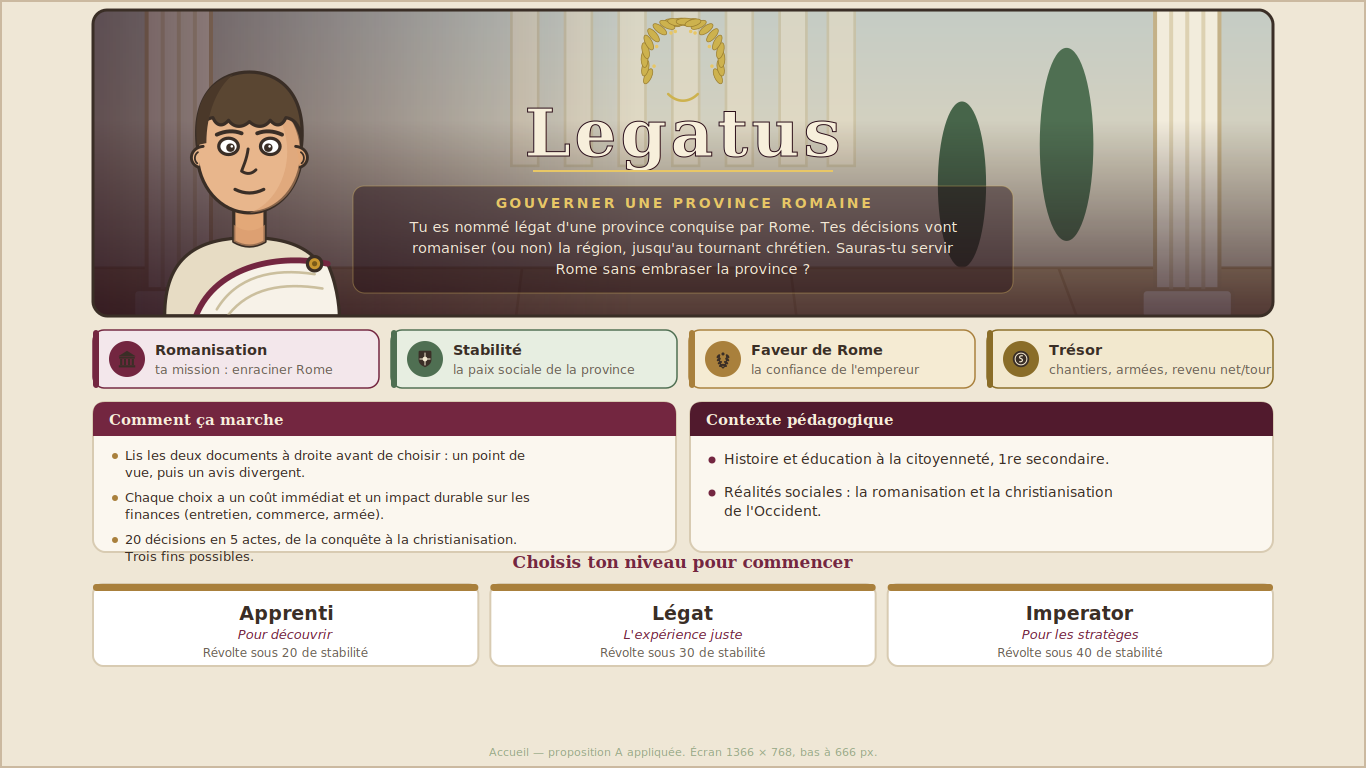
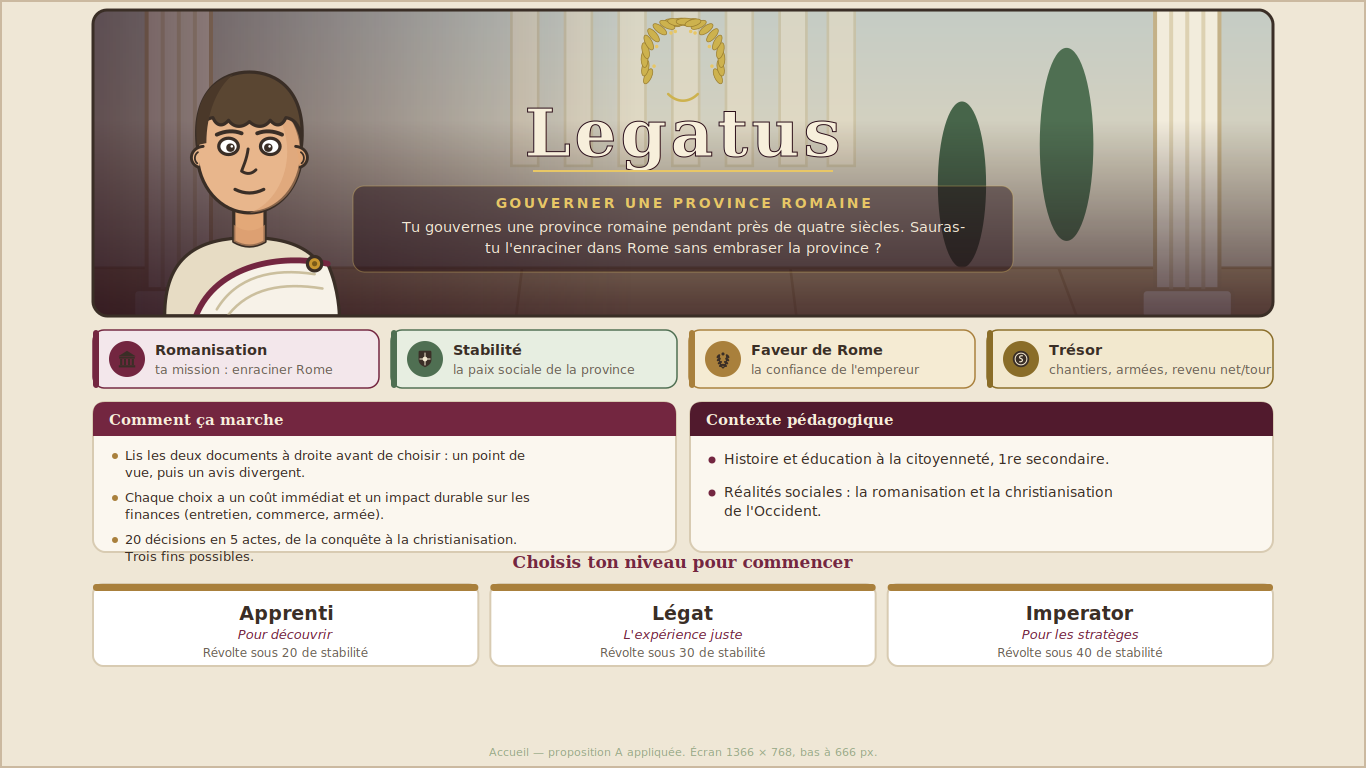
Modification visuelle

Changed region(s): [[0.2767, 0.2812, 0.7379, 0.4062]]

diff --git a/assets/js/legatus-data.js b/assets/js/legatus-data.js
@@ -20,8 +20,8 @@ window.LEGATUS = {
   ],
 
   accueil:{
-    titre:"Legatus", sousTitre:"Gouverner au nom de Rome",
-    accroche:"Tu es nommé légat : gouverneur d'une province tout juste conquise par Rome. Pendant près de quatre siècles, tes décisions vont romaniser (ou non) la région, des premières routes jusqu'au grand tournant chrétien. Sauras-tu servir Rome sans embraser la province ?",
+    titre:"Legatus", sousTitre:"Gouverner une province romaine",
+    accroche:"Tu gouvernes une province romaine pendant près de quatre siècles. Sauras-tu l'enraciner dans Rome sans embraser la province ?",
     commentTitre:"Comment ça marche",
     jaugesAide:[
       { icone:"temple",   nom:"Romanisation",   txt:"ta mission : enraciner Rome" },
@@ -100,7 +100,7 @@ window.LEGATUS = {
       source2:{ texte:"Mais la voie a un coût pour les habitants : entretien par corvée, obligation de loger et de transporter soldats et courriers impériaux. Des édits durent limiter ces réquisitions abusives.", ref:"D’après les édits sur les réquisitions (Ier-IIe s.), adaptation" },
       contexte:"Bâtissons une voie romaine, légat. Mais pour qui d'abord : les légions, ou le commerce ?",
       options:[
-        { label:"Un grand axe pour le commerce et les cités", cout:60, effets:{ romanisation:9 }, persistant:{ tresor:8 }, flag:"voie",
+        { label:"Un grand axe pour le commerce et les cités", cout:60, effets:{ romanisation:9 }, persistant:{ tresor:6 }, flag:"voie",
           consequence:"Marchands et marchandises affluent. Avec eux voyagent la monnaie, la langue et les usages de Rome, et tes recettes montent.",
           pourquoi:"Les voies diffusent Rome et stimulent durablement le commerce : une route civile romanise en profondeur." },
         { label:"Des voies stratégiques pour les légions", cout:50, effets:{ stabilite:5, faveur:3, romanisation:3 }, persistant:{ tresor:3 },
@@ -159,7 +159,7 @@ window.LEGATUS = {
       source2:{ texte:"Au Sénat, beaucoup s’opposèrent à l’entrée des Gaulois : ces anciens ennemis, disaient-ils, allaient envahir Rome et évincer ses vieilles familles.", ref:"D’après Tacite, Annales, XI, 23, adaptation" },
       contexte:"Donnons à la cité un vrai centre, légat : un forum, et une curie pour le conseil des notables.",
       options:[
-        { label:"Un forum monumental avec curie", cout:75, effets:{ romanisation:7, stabilite:2, faveur:2 }, persistant:{ tresor:5 }, flag:"curie",
+        { label:"Un forum monumental avec curie", cout:75, effets:{ romanisation:7, stabilite:2, faveur:2 }, persistant:{ tresor:4 }, flag:"curie",
           consequence:"Place publique, temples, basilique et siège du conseil : le cœur civique de la cité bat à la romaine, et des notables gaulois y siègent.",
           pourquoi:"Le forum était le centre politique et social ; la curie y associait les élites locales au pouvoir, clé d'une romanisation durable (et précieuse face à la révolte)." },
         { label:"Une simple place de marché", cout:30, effets:{ romanisation:3, stabilite:1 }, persistant:{ tresor:3 },
@@ -193,7 +193,7 @@ window.LEGATUS = {
     {
       type:"evenement", id:"commerce", acte:"Acte III : Vivre en Romain",
       acteIntro:"Une génération a passé. Les villes prospèrent, hérissées de monuments. Reste à gagner les cœurs et les esprits : la culture, la foi, le droit de cité.",
-      controleRome:{ seuil:32, rappel:16, malus:12 },
+      controleRome:{ seuil:32, rappel:16, malus:12, faveurRappel:22 },
       acteMalus:{ stabilite:-10 }, acteMalusNote:"Le temps passe : tenir les acquis devient plus dur (stabilité −10).",
       perso:"marchand", expr:"neutre", ambiance:"jour", nom:"Quintus, un marchand",
       titre:"Les marchands de la voie",
@@ -205,7 +205,7 @@ window.LEGATUS = {
         { label:"Taxer lourdement les échanges", effets:{ tresor:30, stabilite:-6, romanisation:1 }, persistant:{ tresor:-2 },
           consequence:"Tes caisses se remplissent vite, mais les marchands rechignent et les cités murmurent.",
           pourquoi:"Le commerce remplit le trésor ; trop taxé, il s'étiole et irrite la province." },
-        { label:"Favoriser le commerce, péages légers", effets:{ romanisation:7, stabilite:1, tresor:8 }, persistant:{ tresor:8 },
+        { label:"Favoriser le commerce, péages légers", effets:{ romanisation:7, stabilite:1, tresor:8 }, persistant:{ tresor:6 },
           consequence:"Les marchés se multiplient. Avec les marchandises voyagent la monnaie et les usages de Rome.",
           pourquoi:"Le commerce diffuse la culture de Rome : il romanise en douceur." },
         { label:"Réserver le grand commerce aux citoyens romains", effets:{ romanisation:4, faveur:5, stabilite:-5 }, persistant:{ tresor:2 },
@@ -262,7 +262,7 @@ window.LEGATUS = {
       contexte:"Legatus, je songe à faire de tous les hommes libres de l'Empire des citoyens romains. M'appuieras-tu ?",
       revenuApres:true,
       options:[
-        { label:"Soutenir la citoyenneté pour tous les hommes libres", effets:{ romanisation:14, stabilite:6, faveur:-3, tresor:10 }, persistant:{ tresor:3 },
+        { label:"Soutenir la citoyenneté pour tous les hommes libres", effets:{ romanisation:14, stabilite:6, faveur:-3, tresor:10 }, persistant:{ tresor:2 },
           consequence:"Des millions de provinciaux deviennent citoyens romains. La Gaule se sent pleinement de l'Empire, et paie l'impôt des citoyens.",
           pourquoi:"L'édit de Caracalla (212) fit de presque tous les habitants libres des citoyens romains : l'aboutissement de l'intégration (et une nouvelle assiette fiscale)." },
         { label:"L'élargir aux seules élites méritantes", effets:{ romanisation:7, stabilite:2, faveur:2 }, persistant:{ tresor:1 },
@@ -277,7 +277,7 @@ window.LEGATUS = {
     {
       type:"evenement", id:"revolte", acte:"Acte IV : Tenir l'Empire",
       acteIntro:"Les décennies filent. L'Empire est à son apogée, mais sa grandeur même devient un fardeau. Des fissures apparaissent, au-dedans comme aux frontières.",
-      controleRome:{ seuil:50, rappel:32, malus:15 },
+      controleRome:{ seuil:50, rappel:32, malus:15, faveurRappel:30 },
       acteMalus:{ stabilite:-18 }, acteMalusNote:"La pression des crises ébranle la province (stabilité −18).",
       perso:"gaulois", expr:"severe", ambiance:"danger", nom:"Diviciacos, chef éduen",
       titre:"La révolte des Éduens",
@@ -287,7 +287,7 @@ window.LEGATUS = {
       contexteGrave:"Romain ! Tes lois, tes dieux, tes impôts : tu veux nous effacer. La révolte gagne toute la Gaule !",
       seuilGrave:42, revenuApres:true,
       options:[
-        { label:"Réprimer par les légions", flag:"repression", effets:{ stabilite:15, romanisation:-8, faveur:6 }, persistant:{ tresor:-2 },
+        { label:"Réprimer par les légions", flag:"repression", effets:{ stabilite:15, romanisation:-8, faveur:6 }, persistant:{ tresor:-3 },
           consequence:"Les légions écrasent la révolte. L'ordre revient, mais la province se tait par crainte, non par adhésion.",
           pourquoi:"La force rétablit l'ordre, mais la soumission n'est pas l'adhésion : la rancœur couve et la romanisation recule." },
         { label:"Négocier et accorder la citoyenneté aux élites éduennes", effets:{ stabilite:10, romanisation:10, faveur:-5, tresor:-20 },
@@ -308,13 +308,13 @@ window.LEGATUS = {
       contexte:"Légat ! Des bandes germaniques ont franchi le Rhin et pillent nos confins. Tes ordres ?",
       revenuApres:true,
       options:[
-        { label:"Lever des auxiliaires gaulois pour défendre la frontière", effets:{ romanisation:8, stabilite:4, faveur:4, tresor:-20 }, persistant:{ tresor:-3 },
+        { label:"Lever des auxiliaires gaulois pour défendre la frontière", effets:{ romanisation:8, stabilite:4, faveur:4, tresor:-25 }, persistant:{ tresor:-5 },
           consequence:"Des Gaulois prennent les armes sous l'aigle romaine. En servant Rome, ils s'y attachent.",
           pourquoi:"Enrôler les Gaulois dans l'armée les intégrait à Rome : le service militaire, récompensé par la citoyenneté, romanisait." },
-        { label:"Faire venir des légions d'Italie", effets:{ stabilite:10, faveur:-4, tresor:-30 }, persistant:{ tresor:-5 },
+        { label:"Faire venir des légions d'Italie", effets:{ stabilite:10, faveur:-4, tresor:-45 }, persistant:{ tresor:-8 },
           consequence:"Les légions repoussent l'envahisseur, au prix fort, et sans rien changer aux cœurs gaulois.",
           pourquoi:"Les légions sécurisaient vite, mais coûtaient cher et n'intégraient pas la population." },
-        { label:"Négocier et verser un tribut aux chefs germains", effets:{ tresor:-30, stabilite:4, faveur:-10 }, persistant:{ tresor:-3 },
+        { label:"Négocier et verser un tribut aux chefs germains", effets:{ tresor:-35, stabilite:4, faveur:-10 }, persistant:{ tresor:-5 },
           consequence:"L'or achète la paix sur le Rhin. La frontière se calme, mais Rome juge le procédé indigne.",
           pourquoi:"Acheter la paix évitait la guerre, mais affaiblissait le prestige de Rome." }
       ]
@@ -328,7 +328,7 @@ window.LEGATUS = {
       contexte:"Légat, tout vacille à la fois : invasions sur tous les fronts, empereurs assassinés, monnaie sans valeur. L'Empire manque de sombrer.",
       revenuApres:true,
       options:[
-        { label:"Mobiliser toutes les forces pour sauver l'Empire", effets:{ stabilite:9, faveur:3, tresor:-40 }, persistant:{ tresor:-5 },
+        { label:"Mobiliser toutes les forces pour sauver l'Empire", effets:{ stabilite:9, faveur:3, tresor:-50 }, persistant:{ tresor:-8 },
           consequence:"À force d'efforts et de dépenses, tu tiens. L'Empire survit, exsangue mais debout.",
           pourquoi:"La crise du IIIᵉ siècle (invasions, anarchie militaire) faillit emporter Rome ; la sauver exigea des sacrifices énormes." },
         { label:"Te replier sur la défense des cités", effets:{ stabilite:3, romanisation:-4, faveur:-3, tresor:-15 }, persistant:{ tresor:-2 },
@@ -368,10 +368,10 @@ window.LEGATUS = {
       contexte:"Legatus, l'Empire est devenu trop grand pour un seul maître. Faut-il en partager le gouvernement pour mieux le défendre ?",
       revenuApres:true,
       options:[
-        { label:"Partager le pouvoir entre plusieurs chefs (la tétrarchie)", effets:{ stabilite:10, faveur:4, romanisation:-2 }, persistant:{ tresor:-4 },
+        { label:"Partager le pouvoir entre plusieurs chefs (la tétrarchie)", effets:{ stabilite:10, faveur:4, romanisation:-2, tresor:-15 }, persistant:{ tresor:-6 },
           consequence:"Plusieurs empereurs se partagent l'Empire : chacun défend sa part. Mieux gardé, mais l'unité se fissure.",
           pourquoi:"Face à l'immensité et aux invasions, Dioclétien partagea le pouvoir (la tétrarchie) pour mieux défendre l'Empire, au risque de la division." },
-        { label:"Hérisser la frontière de forts et de garnisons (le limes)", cout:30, effets:{ stabilite:8, romanisation:1 }, persistant:{ tresor:-5 },
+        { label:"Hérisser la frontière de forts et de garnisons (le limes)", cout:45, effets:{ stabilite:8, romanisation:1 }, persistant:{ tresor:-8 },
           consequence:"Tu fortifies le limes. Les incursions ralentissent, à grands frais.",
           pourquoi:"Fortifier la frontière (le limes) ralentissait les invasions, mais coûtait cher et figeait l'armée sur la défensive." },
         { label:"Tout gouverner seul depuis le centre", effets:{ stabilite:-8, faveur:2 }, persistant:{ tresor:-2 },
@@ -383,7 +383,7 @@ window.LEGATUS = {
     {
       type:"evenement", id:"religion", acte:"Acte V : Le tournant chrétien",
       acteIntro:"Près de deux siècles ont passé. L'Empire que tu sers a changé de visage : une foi venue d'Orient gagne les villes et bouleverse l'ordre romain. Rien ne sera plus comme avant.",
-      controleRome:{ seuil:65, rappel:48, malus:15 },
+      controleRome:{ seuil:65, rappel:48, malus:15, faveurRappel:38 },
       acteMalus:{ stabilite:-16, faveur:-8 }, acteMalusNote:"Le grand bouleversement religieux secoue l'Empire (stabilité −16, faveur −8).",
       perso:"conseiller", expr:"inquiet", ambiance:"jour", nom:"Marcus, ton conseiller",
       titre:"Une religion nouvelle",
@@ -466,7 +466,7 @@ window.LEGATUS = {
     }
   ],
 
-  revenu:{ haut:20, bas:9, seuil:45, texte:"Récolte des impôts" },
+  revenu:{ haut:12, bas:4, seuil:45, texte:"Récolte des impôts" },
 
   /* Niveaux de difficulté. seuilRevolte = stabilité sous laquelle une province se
      soulève ; seuilPaix = stabilité à retrouver pour la pacifier (bande d'hystérésis).

diff --git a/assets/js/legatus.js b/assets/js/legatus.js
@@ -115,16 +115,17 @@
     if(o.nom) bulle.appendChild(creer("div","qui",esc(o.nom)));
     bulle.appendChild(creer("div","dit", esc(o.texte)+(o.alerte?'<span class="alerte"> '+esc(o.alerte)+'</span>':"")));
     sc.appendChild(bulle);
-    if(o.document){
-      var dv=creer("div","doc-vignette");
-      dv.innerHTML='<img src="'+docSrc(o.document)+'" alt=""><div class="leg">'+esc(DOCLEG[o.document]||"")+'</div>';
-      sc.appendChild(dv);
-    }
     row.appendChild(sc);
-    if(o.docs && o.docs.length){
+    if(o.document || (o.docs && o.docs.length)){
       var col=creer("div","docs");
-      col.appendChild(creer("div","docs-tete","\uD83D\uDCDC Documents \u00e0 consulter"));
-      o.docs.forEach(function(d,k){
+      if(o.docs && o.docs.length) col.appendChild(creer("div","docs-tete","\uD83D\uDCDC Documents \u00e0 consulter"));
+      if(o.document){
+        var di=creer("div","source source-img");
+        di.innerHTML='<div class="src-tete">'+esc(DOCLEG[o.document]||"Illustration")+'</div>'+
+          '<img class="doc-img" src="'+docSrc(o.document)+'" alt="">';
+        col.appendChild(di);
+      }
+      (o.docs||[]).forEach(function(d,k){
         var src=creer("div","source");
         src.appendChild(creer("div","src-tete",(d.tete||("Document "+(k+1)))));
         src.appendChild(creer("div","src-txt",esc(d.texte)));
@@ -263,6 +264,13 @@
         var dm=appliquer({faveur:-(e.controleRome.malus||10)});
         deltas = deltas?fusion(deltas,dm):dm;
         avert="Rome juge tes progrès de romanisation insuffisants : la faveur de l'empereur chute. Romanise la province, ou tu seras rappelé.";
+      }
+      if(e.controleRome.faveurRappel!==undefined){
+        if(etat.faveur < e.controleRome.faveurRappel) return finEchec("faveur");
+        if(etat.faveur < e.controleRome.faveurRappel+10){
+          var w="L'empereur s'impatiente : ta faveur est dangereusement basse. Remonte-la, ou Rome te rappellera.";
+          avert = avert ? (avert+" "+w) : w;
+        }
       }
     }
     var go=gameOver(); if(go) return finEchec(go);
@@ -424,7 +432,7 @@
   document.addEventListener("DOMContentLoaded",choisirDifficulte);
   window.__LEGATUS_TEST={ get etat(){return etat;}, get flags(){return flags;}, get idx(){return idx;},
     get enRevolte(){return enRevolte;}, get diff(){return DIFF;},
-    intro:intro, choisirDifficulte:choisirDifficulte,
+    intro:intro, choisirDifficulte:choisirDifficulte, etape:etape, interlude:interlude,
     setDiff:function(k){ DIFF=(G.difficultes&&G.difficultes[k])||DIFF; },
     _set:function(o){Object.assign(etat,o);} };
 })();

diff --git a/assets/css/legatus.css b/assets/css/legatus.css
@@ -318,3 +318,13 @@ header.tete{ display:none; }                 /* titre porté par l'accueil + l'o
   .acc-hud{ grid-template-columns:1fr 1fr; }
   .acc-cols{ flex-direction:column; }
 }
+
+/* ===== image-document dans la colonne (au lieu d'une vignette qui masque la bulle) ===== */
+.source-img{ display:flex; flex-direction:column; align-items:stretch; }
+.doc-img{ flex:1 1 auto; min-height:60px; max-height:100%; max-width:100%; object-fit:contain;
+  border:2px solid var(--encre); border-radius:6px; margin-top:5px; background:#fff; }
+/* ===== ajustements bannière d'accueil ===== */
+.acc-hero{ height:clamp(260px,40vh,306px); }
+.acc-titrebloc{ padding-top:10px; }
+.couronne{ width:clamp(86px,11vw,108px); margin-bottom:-2px; }
+.acc-plaque{ padding:8px 16px 10px; }

diff --git a/LECTURE-MOI.md b/LECTURE-MOI.md
@@ -119,19 +119,23 @@ les langues, laisser les cultes locaux, baisser les impôts, verser un tribut,
 refuser de persécuter, s'opposer à la citoyenneté… toutes ces options pèsent
 lourdement sur la faveur de l'empereur (jusqu'à −13). À force, c'est la
 **destitution**. Bref, deux façons de perdre par mauvaise romanisation : le
-**rappel** (progrès insuffisants) et la **destitution** (Rome lâchée trop souvent).
+**rappel** (progrès de romanisation insuffisants) et la **destitution** par l'empereur. À chaque **revue d'acte** (actes III, IV, V), si la **Faveur de Rome** est trop basse (sous **22**, puis **30**, puis **38** — les attentes de Rome montent), le gouverneur est **rappelé**. Un avertissement prévient quand la faveur approche du seuil. La faveur à 0 met fin au mandat immédiatement.
 
 ## Impact financier durable des choix
 
 Les choix ne pèsent plus seulement sur le tour courant : beaucoup laissent une
 **rente récurrente** appliquée **à chaque tour** (champ `persistant:{ tresor:±N }`).
 
-- **Commerce et routes** font **croître le revenu** (grande voie +8 / tour, forum
+- **Commerce et routes** font **croître le revenu** (grande voie +6 / tour, forum
   monumental +5, « favoriser le commerce » +8, citoyenneté élargie +3…).
 - **Infrastructures** coûtent leur **entretien** (grands thermes −3, grand aqueduc
   −3, grands jeux −4… *panem et circenses* coûte cher).
 - **Armée et garnisons** pèsent durablement (légions d'Italie −5, limes −5,
   mobilisation −5, tribut −3…).
+- **L'armée coûte cher**, en ponctuel **et** en entretien récurrent : lever des
+  auxiliaires (−25 d. puis −5 / tour), faire venir des légions (−45 puis −8),
+  verser un tribut (−35 puis −5), mobiliser tout l'Empire (−50 puis −8), tenir
+  le limes (−45 puis −8). Une province militarisée voit son **revenu fondre**.
 
 Le **revenu net par tour** s'affiche sous le Trésor : `impôts + commerce −
 entretien`. Il **baisse quand la province est instable** (impôts réduits) et, en
@@ -151,7 +155,7 @@ Les réglages sont **durcis** pour sanctionner les choix faibles :
 - **Pression d'acte accrue** — chaque nouvel acte (III, IV, V) entame la stabilité
   (jusqu'à −18) et la faveur.
 - **Économie serrée** — chantiers chers (grand aqueduc 80 d., thermes 70 d., forum
-  75 d.), **revenu réduit** (20 / 9 d. par tour, affiché sous le Trésor) et
+  75 d.), **revenu de base volontairement bas** (≈ 12 / 4 d. par tour) : sans commerce, on ne finance presque rien et
   **passivité pénalisée** : ne rien bâtir coûte un peu de stabilité ou de faveur.
 
 Tous ces réglages (`bilans`, `controleRome`, `acteMalus`, `cout`, `revenu`) vivent
